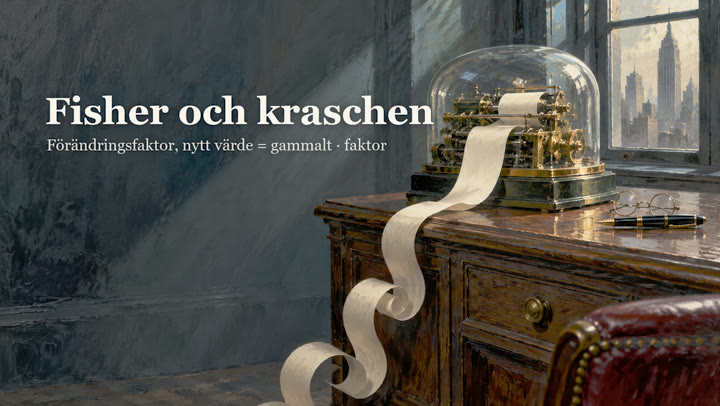
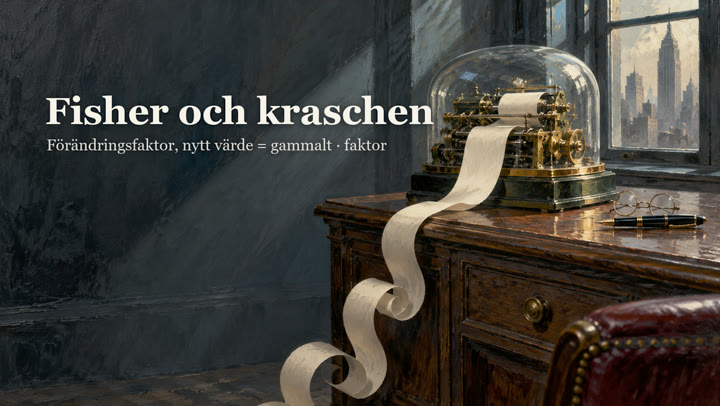
bygg: mät omslagens ljushet med ffmpeg -i i stället för movie= i lavfi
På Windows läste lavfi kolonet i E:\… som avgränsare, så mätningen föll tyst i
varje bygge sedan flytten 7/10 och alla kort fick full kurva. 27 omslag som
bakats sedan dess var för ljusa (YAVG 45–98). De är bakade om med halv eller
ingen kurva, och deras ?v= i videor.json och filmsidorna är uppdaterade.

diff --git a/public/film/ma1c-k3-02-lan-ranta-amortering/index.html b/public/film/ma1c-k3-02-lan-ranta-amortering/index.html
@@ -12,7 +12,7 @@
 <meta property="og:title" content="Yunus och lånet · Ma 1c, Lån, ränta och amortering">
 <meta property="og:description" content="År 1976 går professorn Muhammad Yunus in i byn Jobra i Bangladesh. Sufia Begum flätar pallar av bambu, men pengarna till bambun lånar hon av en handlare, och efter en hel dags arbete har hon 50 paisa kvar. En granne betalar 10 % ränta i veckan. Vi räknar räntan som lånet · räntesatsen, ett års ränta på 100 taka (520 taka, årsränta 520 %) och ränta på ränta med förändringsfaktorn: 1,10⁵² ≈ 142. Sedan lånar Sufia 1 000 taka av Yunus och amorterar 20 taka i veckan. Räntan räknas bara på skulden, så den blir 8 paisa mindre varje vecka, och hela årets ränta blir 100 taka.">
 <meta property="og:url" content="https://winterhalls-matte.vercel.app/film/ma1c-k3-02-lan-ranta-amortering/">
-<meta property="og:image" content="https://winterhalls-matte.vercel.app/omslag/ma1c-k3-02-lan-ranta-amortering.jpg?v=b572d76e">
+<meta property="og:image" content="https://winterhalls-matte.vercel.app/omslag/ma1c-k3-02-lan-ranta-amortering.jpg?v=9a0b9c37">
 <meta name="twitter:card" content="summary_large_image">
 <script>
   var t = new URLSearchParams(location.search).get("t");

diff --git a/public/film/ma1c-k4-05-exponentialfunktioner/index.html b/public/film/ma1c-k4-05-exponentialfunktioner/index.html
@@ -12,7 +12,7 @@
 <meta property="og:title" content="Franklin och räntan · Ma 1c, Exponentialfunktioner">
 <meta property="og:description" content="Sommaren 1789 skrev Benjamin Franklin i sitt testamente att 1000 pund, utlånade mot 5 % ränta, skulle bli 131 000 pund på hundra år. Vi följer pengarna ett år i taget och ser hur räntan ger ränta. Fem procent till är samma sak som gånger 1,05, exponenten räknar hur många år vi tar gånger, och vi kollar Franklins svar på räknaren. Formeln y = C · aˣ kommer sist. Sedan jämför vi med ett linjärt samband, ser hur en tryckpress som tappar i värde ger en avtagande funktion och läser av startvärde och procent direkt ur funktionen.">
 <meta property="og:url" content="https://winterhalls-matte.vercel.app/film/ma1c-k4-05-exponentialfunktioner/">
-<meta property="og:image" content="https://winterhalls-matte.vercel.app/omslag/ma1c-k4-05-exponentialfunktioner.jpg?v=39ef72f6">
+<meta property="og:image" content="https://winterhalls-matte.vercel.app/omslag/ma1c-k4-05-exponentialfunktioner.jpg?v=7a9bbbe5">
 <meta name="twitter:card" content="summary_large_image">
 <script>
   var t = new URLSearchParams(location.search).get("t");

diff --git a/public/film/ma1c-k3-01-forandringsfaktor/index.html b/public/film/ma1c-k3-01-forandringsfaktor/index.html
@@ -12,7 +12,7 @@
 <meta property="og:title" content="Fisher och kraschen · Ma 1c, Förändringsfaktor">
 <meta property="og:description" content="Hösten 1929 är Irving Fisher en av de mest kända ekonomerna i USA, och han tror att aktiepriserna ska stanna där de är. Sedan rasar börsen: indexet faller med 13 % på måndagen och 12 % på svarta tisdagen, och stiger med 12 % på onsdagen. Är priserna då tillbaka? Vi räknar först steg för steg och sedan i ett enda steg med förändringsfaktorn, regeln nya värdet = gamla värdet · förändringsfaktorn åt alla tre håll, den totala förändringsfaktorn för flera dagar och upprepad förändring som 0,88³.">
 <meta property="og:url" content="https://winterhalls-matte.vercel.app/film/ma1c-k3-01-forandringsfaktor/">
-<meta property="og:image" content="https://winterhalls-matte.vercel.app/omslag/ma1c-k3-01-forandringsfaktor.jpg?v=5fe78011">
+<meta property="og:image" content="https://winterhalls-matte.vercel.app/omslag/ma1c-k3-01-forandringsfaktor.jpg?v=05698710">
 <meta name="twitter:card" content="summary_large_image">
 <script>
   var t = new URLSearchParams(location.search).get("t");

diff --git a/public/film/ma1c-k5-02-korrelation-och-kausalitet/index.html b/public/film/ma1c-k5-02-korrelation-och-kausalitet/index.html
@@ -12,7 +12,7 @@
 <meta property="og:title" content="Doll och cigaretterna · Ma 1c, Korrelation och kausalitet">
 <meta property="og:description" content="Våren 1948 dör allt fler män i England av lungcancer, och ingen vet varför. Läkaren Richard Doll och statistikern Austin Bradford Hill frågar patienter på tjugo sjukhus i London hur mycket de röker. Vi går igenom population, stickprov och urval, jämförelsegrupp och bortfall, räknar andelar ur tabellen och ser vad korrelation betyder, i ett punktdiagram och med en nollhypotes. Sist frågar vi om korrelationen visar en orsak, eller om en tredje variabel kan ligga bakom.">
 <meta property="og:url" content="https://winterhalls-matte.vercel.app/film/ma1c-k5-02-korrelation-och-kausalitet/">
-<meta property="og:image" content="https://winterhalls-matte.vercel.app/omslag/ma1c-k5-02-korrelation-och-kausalitet.jpg?v=99457e62">
+<meta property="og:image" content="https://winterhalls-matte.vercel.app/omslag/ma1c-k5-02-korrelation-och-kausalitet.jpg?v=253a3a0c">
 <meta name="twitter:card" content="summary_large_image">
 <script>
   var t = new URLSearchParams(location.search).get("t");

diff --git a/public/film/ma1c-k3-03-sannolikhet-i-flera-steg/index.html b/public/film/ma1c-k3-03-sannolikhet-i-flera-steg/index.html
@@ -12,7 +12,7 @@
 <meta property="og:title" content="Mendel och ärtorna · Ma 1c, Sannolikhet i flera steg">
 <meta property="og:description" content="Våren 1856 börjar munken Gregor Mendel korsa ärtplantor i klostrets trädgård i Brno. Han räknar 8 023 ärtor, och ungefär var fjärde blir grön. Varför? Vi går från slumpförsök, utfall och händelse till sannolikheten som gynnsamma delat med möjliga utfall, ritar Mendels anlag i en tabell och sedan i ett träddiagram, multiplicerar längs en gren (½ · ½ = ¼), adderar mellan grenar och räknar med två egenskaper samtidigt: gul och rund, ¾ · ¾ = 9/16.">
 <meta property="og:url" content="https://winterhalls-matte.vercel.app/film/ma1c-k3-03-sannolikhet-i-flera-steg/">
-<meta property="og:image" content="https://winterhalls-matte.vercel.app/omslag/ma1c-k3-03-sannolikhet-i-flera-steg.jpg?v=78a0bab4">
+<meta property="og:image" content="https://winterhalls-matte.vercel.app/omslag/ma1c-k3-03-sannolikhet-i-flera-steg.jpg?v=f261c724">
 <meta name="twitter:card" content="summary_large_image">
 <script>
   var t = new URLSearchParams(location.search).get("t");

diff --git a/public/film/ma1c-k4-03-rata-linjens-ekvation/index.html b/public/film/ma1c-k4-03-rata-linjens-ekvation/index.html
@@ -12,7 +12,7 @@
 <meta property="og:title" content="Earhart och linjen · Ma 1c / Ma 2a, Bestämma räta linjens ekvation ur två punkter">
 <meta property="og:description" content="Den 2 juli 1937 flög Amelia Earhart och Fred Noonan mot den lilla ön Howland mitt i Stilla havet. Vi tar fram kurslinjens ekvation ur två punkter och prövar om en punkt ligger på linjen. Sedan följer vi Noonans solens linje, som är vinkelrät mot riktningen till solen och flyttas parallellt genom ön. Till sist skriver vi om en linje från allmän form till y = kx + m.">
 <meta property="og:url" content="https://winterhalls-matte.vercel.app/film/ma1c-k4-03-rata-linjens-ekvation/">
-<meta property="og:image" content="https://winterhalls-matte.vercel.app/omslag/ma1c-k4-03-rata-linjens-ekvation.jpg?v=f9089877">
+<meta property="og:image" content="https://winterhalls-matte.vercel.app/omslag/ma1c-k4-03-rata-linjens-ekvation.jpg?v=e65b2d87">
 <meta name="twitter:card" content="summary_large_image">
 <script>
   var t = new URLSearchParams(location.search).get("t");

diff --git a/public/film/ma1c-k2-01-linjara-ekvationer/index.html b/public/film/ma1c-k2-01-linjara-ekvationer/index.html
@@ -12,7 +12,7 @@
 <meta property="og:title" content="Recorde och likhetstecknet · Ma 1c, Lösa linjära ekvationer med balansmetoden">
 <meta property="og:description" content="Robert Recorde i London år 1557: han tröttnade på att skriva &quot;är lika med&quot; och ritade två lika långa streck, det första likhetstecknet. Med hans egen första ekvation, 14x + 15 = 71, lär vi oss balansmetoden: gör samma sak med båda leden tills x står ensamt. Sedan x i båda leden, ekvationer med parentes och ekvationer med bråk, och hur man kontrollerar svaret.">
 <meta property="og:url" content="https://winterhalls-matte.vercel.app/film/ma1c-k2-01-linjara-ekvationer/">
-<meta property="og:image" content="https://winterhalls-matte.vercel.app/omslag/ma1c-k2-01-linjara-ekvationer.jpg?v=57831714">
+<meta property="og:image" content="https://winterhalls-matte.vercel.app/omslag/ma1c-k2-01-linjara-ekvationer.jpg?v=ab922073">
 <meta name="twitter:card" content="summary_large_image">
 <script>
   var t = new URLSearchParams(location.search).get("t");

diff --git a/public/film/ma2a-08-substitution-och-addition/index.html b/public/film/ma2a-08-substitution-och-addition/index.html
@@ -12,7 +12,7 @@
 <meta property="og:title" content="Kirchhoff och strömmen – Lösa ekvationssystem med substitutions- och additionsmetoden · Ma 2a, Lösa ekvationssystem algebraiskt med substitutionsmetoden och additionsmetoden">
 <meta property="og:description" content="År 1845 studerar Gustav Kirchhoff i Königsberg och kommer fram till två regler för hur strömmen delar sig i ett nät av trådar. Reglerna ger ett ekvationssystem, och vi löser det exakt på två sätt: med substitutionsmetoden och med additionsmetoden.">
 <meta property="og:url" content="https://winterhalls-matte.vercel.app/film/ma2a-08-substitution-och-addition/">
-<meta property="og:image" content="https://winterhalls-matte.vercel.app/omslag/ma2a-08-substitution-och-addition.jpg?v=9f236835">
+<meta property="og:image" content="https://winterhalls-matte.vercel.app/omslag/ma2a-08-substitution-och-addition.jpg?v=15908962">
 <meta name="twitter:card" content="summary_large_image">
 <script>
   var t = new URLSearchParams(location.search).get("t");

diff --git a/public/film/ma1c-k6-04-vektorbegreppet/index.html b/public/film/ma1c-k6-04-vektorbegreppet/index.html
@@ -12,7 +12,7 @@
 <meta property="og:title" content="Stevin och kulkransen · Ma 1c, Vektorbegreppet">
 <meta property="og:description" content="Simon Stevin i Leiden år 1586: en krans av lika tunga kulor ligger runt en trekant, fyra kulor på den långa sidan och två på den korta, och ändå står den still. Vi ritar krafter som pilar och lär oss vektorbegreppet: storlek och riktning, lika och motsatta vektorer, ett tal gånger en vektor, addition med resultant och subtraktion på rutat papper.">
 <meta property="og:url" content="https://winterhalls-matte.vercel.app/film/ma1c-k6-04-vektorbegreppet/">
-<meta property="og:image" content="https://winterhalls-matte.vercel.app/omslag/ma1c-k6-04-vektorbegreppet.jpg?v=0e9cd178">
+<meta property="og:image" content="https://winterhalls-matte.vercel.app/omslag/ma1c-k6-04-vektorbegreppet.jpg?v=f21034b5">
 <meta name="twitter:card" content="summary_large_image">
 <script>
   var t = new URLSearchParams(location.search).get("t");

diff --git a/public/film/ma2a-04-pq-formeln/index.html b/public/film/ma2a-04-pq-formeln/index.html
@@ -12,7 +12,7 @@
 <meta property="og:title" content="Al-Khwarizmi i Bagdad – pq-formeln · Ma 2a, Lösa andragradsekvationer med pq-formeln">
 <meta property="og:description" content="I Bagdad på 820-talet skrev al-Khwarizmi en regel i ord för att lösa ekvationer som x i kvadrat plus tio x är lika med 39, och den regeln är pq-formeln på formelbladet. Vi skriver ekvationen så att det står noll på ena sidan, läser av p och q, ställer upp ekvationer ur textuppgifter och väljer det svar som är rimligt.">
 <meta property="og:url" content="https://winterhalls-matte.vercel.app/film/ma2a-04-pq-formeln/">
-<meta property="og:image" content="https://winterhalls-matte.vercel.app/omslag/ma2a-04-pq-formeln.jpg?v=c38340e3">
+<meta property="og:image" content="https://winterhalls-matte.vercel.app/omslag/ma2a-04-pq-formeln.jpg?v=c871101d">
 <meta name="twitter:card" content="summary_large_image">
 <script>
   var t = new URLSearchParams(location.search).get("t");

diff --git a/public/film/ma1c-k4-04-potensfunktioner/index.html b/public/film/ma1c-k4-04-potensfunktioner/index.html
@@ -12,7 +12,7 @@
 <meta property="og:title" content="Boyle och luften · Ma 1c, Potensfunktioner y = C · xᵃ">
 <meta property="og:description" content="Robert Boyle i Oxford år 1662: han trycker ihop luft i ett U-format glasrör med kvicksilver och prövar en gissning om hur mycket mindre plats luften tar. Ur hans mätningar får vi y = 48/x = 48 · x⁻¹ och lär oss omvänd proportionalitet, negativ exponent, potensfunktionen y = C · xᵃ på formelbladet och grafen.">
 <meta property="og:url" content="https://winterhalls-matte.vercel.app/film/ma1c-k4-04-potensfunktioner/">
-<meta property="og:image" content="https://winterhalls-matte.vercel.app/omslag/ma1c-k4-04-potensfunktioner.jpg?v=3bfe4cff">
+<meta property="og:image" content="https://winterhalls-matte.vercel.app/omslag/ma1c-k4-04-potensfunktioner.jpg?v=8fc11455">
 <meta name="twitter:card" content="summary_large_image">
 <script>
   var t = new URLSearchParams(location.search).get("t");

diff --git a/public/film/ma2a-02-faktorisera/index.html b/public/film/ma2a-02-faktorisera/index.html
@@ -12,7 +12,7 @@
 <meta property="og:title" content="Carissans maskin – Faktorisera · Ma 2a, Faktorisera med kvadrerings- och konjugatregeln">
 <meta property="og:description" content="Eugène Carissan visade 1920 i Paris en vevad maskin som delade upp stora tal i faktorer. Vi faktoriserar genom att bryta ut den största gemensamma faktorn, och i enkla fall med konjugatregeln och kvadreringsregeln på formelbladet.">
 <meta property="og:url" content="https://winterhalls-matte.vercel.app/film/ma2a-02-faktorisera/">
-<meta property="og:image" content="https://winterhalls-matte.vercel.app/omslag/ma2a-02-faktorisera.jpg?v=1b78faa4">
+<meta property="og:image" content="https://winterhalls-matte.vercel.app/omslag/ma2a-02-faktorisera.jpg?v=dea494ac">
 <meta name="twitter:card" content="summary_large_image">
 <script>
   var t = new URLSearchParams(location.search).get("t");
